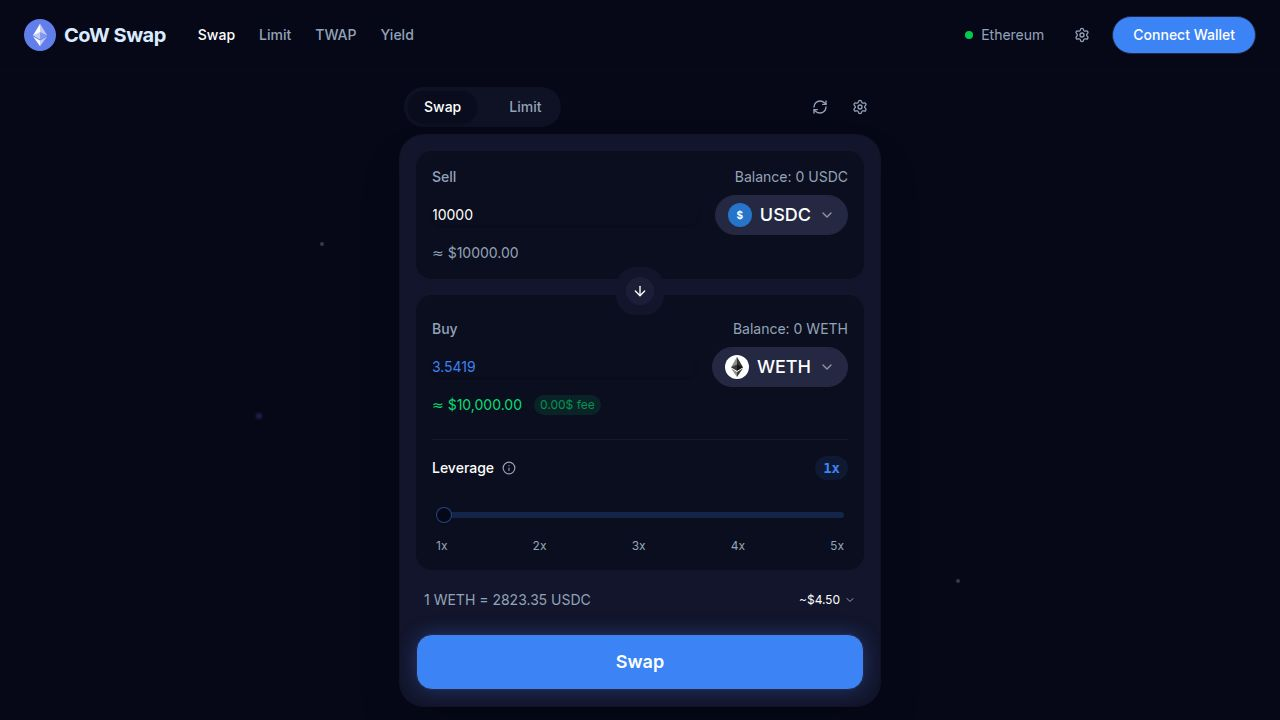
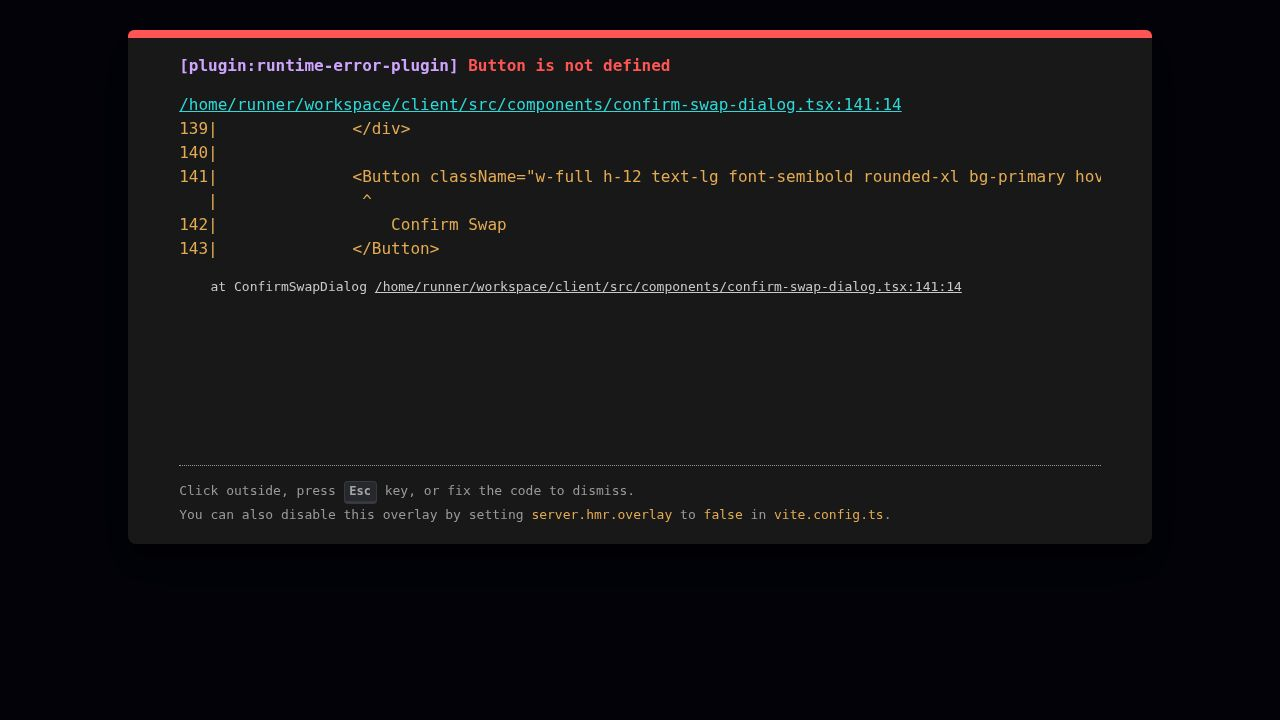
Add confirmation dialog for swaps with leverage details
Adds a new `ConfirmSwapDialog` component and integrates it into the swap page to display detailed information about asset breakdown, leverage, debt, liquidation price, and fees before a swap is executed.

Replit-Commit-Author: Agent
Replit-Commit-Session-Id: 616cda5c-9282-4e51-9ff9-1dfdc4dd79dc
Replit-Commit-Checkpoint-Type: full_checkpoint
Replit-Commit-Event-Id: 0f415f15-e846-449e-bd98-7b878bc57448
Replit-Commit-Screenshot-Url: https://storage.googleapis.com/screenshot-production-us-central1/ab61b5b4-0a37-4d7a-8f8f-0b5c9a3fa14b/616cda5c-9282-4e51-9ff9-1dfdc4dd79dc/Qj92NDh
Replit-Helium-Checkpoint-Created: true

diff --git a/client/src/components/confirm-swap-dialog.tsx b/client/src/components/confirm-swap-dialog.tsx
@@ -1,0 +1,148 @@
+
+import {
+  Dialog,
+  DialogContent,
+  DialogDescription,
+  DialogHeader,
+  DialogTitle,
+  DialogTrigger,
+  DialogFooter,
+  DialogClose,
+} from "@/components/ui/dialog";
+import { Separator } from "@/components/ui/separator";
+
+export function ConfirmSwapDialog({ 
+  open, 
+  onOpenChange, 
+  payAmount, 
+  buyAmount, 
+  leverage,
+  ethPrice,
+  debt,
+  liquidationPrice,
+  liquidationDrop
+}: {
+  open: boolean;
+  onOpenChange: (open: boolean) => void;
+  payAmount: string;
+  buyAmount: string;
+  leverage: number;
+  ethPrice: number;
+  debt: string;
+  liquidationPrice: string;
+  liquidationDrop: number;
+}) {
+  const priceImpact = -0.13;
+  const protocolFee = 0.000071;
+  const networkCost = 0.000212;
+  const slippage = 0.20;
+  
+  return (
+    <Dialog open={open} onOpenChange={onOpenChange}>
+      <DialogContent className="bg-[#0b0e1e] border-white/10 text-foreground sm:max-w-[480px] p-0 overflow-hidden gap-0">
+        <DialogHeader className="px-6 py-4 border-b border-white/5 flex flex-row items-center justify-between">
+          <DialogTitle className="text-lg font-medium flex items-center gap-2">
+            Confirm Swap
+            {leverage > 1 && (
+                <span className="bg-primary/10 text-primary text-xs px-2 py-0.5 rounded-full font-mono">
+                    {leverage}x Leverage
+                </span>
+            )}
+          </DialogTitle>
+        </DialogHeader>
+        
+        <div className="p-6 space-y-6">
+            {/* Asset Cards */}
+            <div className="flex items-center gap-2">
+                <div className="flex-1 bg-[#12152b] rounded-2xl p-4 text-center space-y-2 border border-white/5">
+                    <span className="text-xs text-muted-foreground block mb-1">Sell amount</span>
+                    <div className="w-10 h-10 rounded-full bg-[#2775CA] flex items-center justify-center text-sm font-bold text-white mx-auto">
+                        $
+                    </div>
+                    <div>
+                        <div className="text-lg font-medium">{parseFloat(payAmount).toLocaleString()} USDT</div>
+                        <div className="text-xs text-muted-foreground">≈ ${parseFloat(payAmount).toLocaleString()}</div>
+                    </div>
+                </div>
+
+                <div className="text-muted-foreground">→</div>
+
+                <div className="flex-1 bg-[#12152b] rounded-2xl p-4 text-center space-y-2 border border-white/5 relative overflow-hidden">
+                    {leverage > 1 && (
+                        <div className="absolute top-0 right-0 bg-primary/20 text-primary text-[10px] font-bold px-2 py-0.5 rounded-bl-lg">
+                            {leverage}x
+                        </div>
+                    )}
+                    <span className="text-xs text-muted-foreground block mb-1">Receive (est.)</span>
+                    <div className="w-10 h-10 rounded-full bg-white flex items-center justify-center p-1 mx-auto">
+                        <img src="https://cryptologos.cc/logos/ethereum-eth-logo.svg?v=026" alt="ETH" className="w-full h-full object-contain" />
+                    </div>
+                    <div>
+                        <div className="text-lg font-medium text-primary">{buyAmount} WETH</div>
+                        <div className="text-xs text-muted-foreground">
+                            ≈ ${(parseFloat(payAmount) * leverage).toLocaleString()} <span className="text-red-400">({priceImpact}%)</span>
+                        </div>
+                    </div>
+                </div>
+            </div>
+            
+            {/* Leverage Details Section */}
+            {leverage > 1 && (
+                <div className="bg-orange-500/5 border border-orange-500/20 rounded-xl p-4 space-y-3">
+                    <div className="flex justify-between items-center text-sm">
+                        <span className="text-muted-foreground">Debt (Aave V3)</span>
+                        <span className="font-mono text-orange-400 font-medium">{debt}</span>
+                    </div>
+                    <div className="flex justify-between items-center text-sm">
+                        <span className="text-muted-foreground">Liquidation Price</span>
+                        <div className="text-right">
+                             <span className="font-mono text-red-400 font-medium block">{liquidationPrice}</span>
+                             <span className="text-[10px] text-muted-foreground">(-{liquidationDrop.toFixed(2)}%)</span>
+                        </div>
+                    </div>
+                </div>
+            )}
+
+            {/* Standard Details */}
+            <div className="space-y-3 text-sm">
+                <div className="flex justify-between text-muted-foreground">
+                    <span>Price</span>
+                    <span className="text-foreground">1 WETH = {ethPrice.toFixed(2)} USDT</span>
+                </div>
+                
+                <div className="flex justify-between text-muted-foreground">
+                    <span>Protocol fee (0.02%)</span>
+                    <span className="text-foreground">{protocolFee} WETH (≈ $0.2)</span>
+                </div>
+
+                <div className="flex justify-between text-muted-foreground">
+                    <span>Network costs (est.)</span>
+                    <span className="text-foreground">{networkCost} WETH + gas (≈ $0.6)</span>
+                </div>
+                
+                <Separator className="bg-white/10 my-2" />
+                
+                <div className="flex justify-between font-medium">
+                    <span className="text-muted-foreground">Expected to receive</span>
+                    <span>{buyAmount} WETH</span>
+                </div>
+
+                <div className="flex justify-between text-muted-foreground mt-4 pt-2 border-t border-white/5">
+                    <span>Slippage tolerance</span>
+                    <span>{slippage.toFixed(2)}%</span>
+                </div>
+                
+                <div className="flex justify-between font-medium">
+                    <span className="text-muted-foreground">Minimum receive</span>
+                    <span>{(parseFloat(buyAmount) * (1 - slippage/100)).toFixed(6)} WETH</span>
+                </div>
+            </div>
+
+            <Button className="w-full h-12 text-lg font-semibold rounded-xl bg-primary hover:bg-primary/90 shadow-lg shadow-primary/20">
+                Confirm Swap
+            </Button>
+        </div>
+      </DialogContent>
+    </Dialog>
+  );
+}

diff --git a/client/src/pages/swap.tsx b/client/src/pages/swap.tsx
@@ -15,12 +15,14 @@ import {
 import { Tooltip, TooltipContent, TooltipTrigger } from "@/components/ui/tooltip";
 import { Popover, PopoverContent, PopoverTrigger } from "@/components/ui/popover";
 import logo from "@assets/logo.svg";
+import { ConfirmSwapDialog } from "@/components/confirm-swap-dialog";
 
 export default function SwapPage() {
   const [payAmount, setPayAmount] = useState<string>("10000");
   const [leverage, setLeverage] = useState<number[]>([2]); // Default 2x
   const [showLeverage, setShowLeverage] = useState(false);
   const [ethPrice, setEthPrice] = useState(2823.35);
+  const [isConfirmOpen, setIsConfirmOpen] = useState(false);
   
   // Calculate buy amount based on leverage
   // Normal amount = payAmount / ethPrice
@@ -263,7 +265,10 @@ export default function SwapPage() {
                  </div>
               </div>
 
-              <Button className="w-full h-14 text-lg font-semibold rounded-2xl bg-primary hover:bg-primary/90 shadow-[0_0_20px_rgba(76,130,251,0.3)] mt-2 transition-all">
+              <Button 
+                onClick={() => setIsConfirmOpen(true)}
+                className="w-full h-14 text-lg font-semibold rounded-2xl bg-primary hover:bg-primary/90 shadow-[0_0_20px_rgba(76,130,251,0.3)] mt-2 transition-all"
+              >
                 {activeLeverage > 1 ? `Swap with ${activeLeverage}x Leverage` : 'Swap'}
               </Button>
 
@@ -285,6 +290,18 @@ export default function SwapPage() {
               </p>
           </div>
         </div>
+        
+        <ConfirmSwapDialog 
+            open={isConfirmOpen} 
+            onOpenChange={setIsConfirmOpen}
+            payAmount={payAmount}
+            buyAmount={formattedBuyAmount}
+            leverage={activeLeverage}
+            ethPrice={ethPrice}
+            debt={formattedDebt}
+            liquidationPrice={formattedLiquidationPrice}
+            liquidationDrop={liquidationDrop}
+        />
       </main>
     </div>
   );